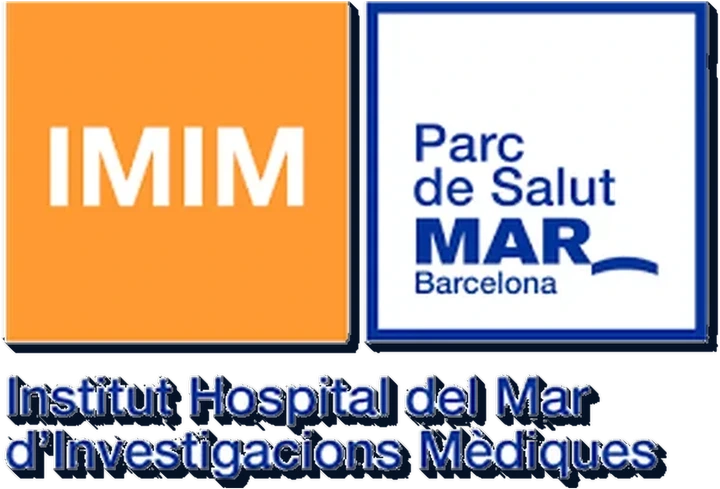
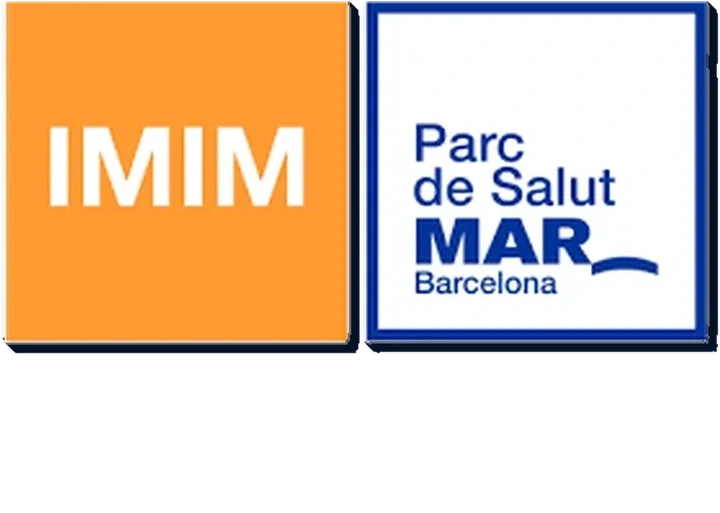
Continental: centra el texto; IMIM: redibuja "Institut Hospital del Mar d'Investigacions Mèdiques" en blanco centrado (mismo tratamiento que Continental)

diff --git a/sitio-andree/index.html b/sitio-andree/index.html
@@ -265,7 +265,7 @@
         <div class="riel-escudos" data-reveal style="--i:1">
           <div class="riel-pista" style="--total:6">
             <figure class="riel-escudo-item" style="--ri:0">
-              <img src="img/escudos/continental.webp?v=7" alt="Universidad Continental" loading="lazy" decoding="async"/>
+              <img src="img/escudos/continental.webp?v=8" alt="Universidad Continental" loading="lazy" decoding="async"/>
               <figcaption class="riel-escudo-etiqueta">Psicología</figcaption>
             </figure>
             <figure class="riel-escudo-item" style="--ri:1">
@@ -292,7 +292,7 @@
                  el contenido para que el desplazamiento pueda dar toda la
                  vuelta y volver al principio sin que se note el corte. -->
             <figure class="riel-escudo-item riel-escudo-item--duplicado" aria-hidden="true">
-              <img src="img/escudos/continental.webp?v=7" alt="" loading="lazy" decoding="async"/>
+              <img src="img/escudos/continental.webp?v=8" alt="" loading="lazy" decoding="async"/>
               <figcaption class="riel-escudo-etiqueta">Psicología</figcaption>
             </figure>
             <figure class="riel-escudo-item riel-escudo-item--duplicado" aria-hidden="true">
@@ -325,7 +325,7 @@
               <img src="img/escudos/unam.webp?v=5" alt="UNAM · CDMX" loading="lazy" decoding="async"/>
             </figure>
             <figure class="riel-escudo-item" style="--ri:1">
-              <img src="img/escudos/imim.webp?v=5" alt="IMIM · Barcelona" loading="lazy" decoding="async"/>
+              <img src="img/escudos/imim.webp?v=6" alt="IMIM · Barcelona" loading="lazy" decoding="async"/>
             </figure>
             <figure class="riel-escudo-item" style="--ri:2">
               <img src="img/escudos/upn.webp?v=4" alt="Universidad Pedagógica Nacional" loading="lazy" decoding="async"/>
@@ -337,7 +337,7 @@
               <img src="img/escudos/unam.webp?v=5" alt="" loading="lazy" decoding="async"/>
             </figure>
             <figure class="riel-escudo-item riel-escudo-item--duplicado" aria-hidden="true">
-              <img src="img/escudos/imim.webp?v=5" alt="" loading="lazy" decoding="async"/>
+              <img src="img/escudos/imim.webp?v=6" alt="" loading="lazy" decoding="async"/>
             </figure>
             <figure class="riel-escudo-item riel-escudo-item--duplicado" aria-hidden="true">
               <img src="img/escudos/upn.webp?v=4" alt="" loading="lazy" decoding="async"/>
@@ -353,7 +353,7 @@
         <p class="escudos-titulo escudos-titulo--mobile" data-reveal>Formación</p>
         <div class="escudos escudos--seis escudos--mobile">
             <figure class="escudo" data-reveal style="--i:1">
-              <img src="img/escudos/continental.webp?v=7" alt="Universidad Continental" loading="lazy" decoding="async"/>
+              <img src="img/escudos/continental.webp?v=8" alt="Universidad Continental" loading="lazy" decoding="async"/>
               <figcaption>Psicología</figcaption>
             </figure>
             <figure class="escudo" data-reveal style="--i:2">
@@ -383,7 +383,7 @@
               <img src="img/escudos/unam.webp?v=5" alt="UNAM · CDMX" loading="lazy" decoding="async"/>
             </figure>
             <figure class="escudo" data-reveal style="--i:8">
-              <img src="img/escudos/imim.webp?v=5" alt="IMIM · Barcelona" loading="lazy" decoding="async"/>
+              <img src="img/escudos/imim.webp?v=6" alt="IMIM · Barcelona" loading="lazy" decoding="async"/>
             </figure>
             <figure class="escudo" data-reveal style="--i:9">
               <img src="img/escudos/upn.webp?v=4" alt="Universidad Pedagógica Nacional" loading="lazy" decoding="async"/>
